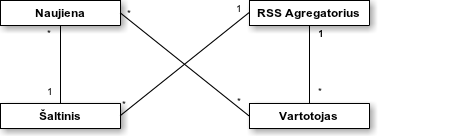
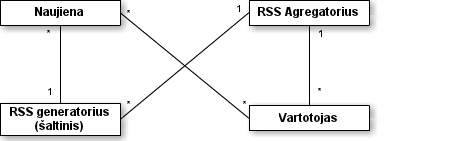
Redagavau stat. strukt., ištryniau nereikalingas admin užduotis

diff --git a/projektas/2.2_vidine_analize.md b/projektas/2.2_vidine_analize.md
@@ -42,15 +42,7 @@ užima papildomo vartotojo laiko.
 
 ![Užduotis: Pažymėti pamėgtąja](projektas/img/Užduotis_Pažymėti_pamėgtąja.png)  
 
-![Užduotis: Ištrinti šaltinį (admin)](projektas/img/Užduotis_ištrinti_šalt_admin.png)  
-
-![Užduotis: Pridėti šaltinį (admin)](projektas/img/Užduotis_prideti_šalt_admin.png)  
-
-![Užduotis: Keisti vartotojo informaciją (admin)](projektas/img/Užduotis_Keisti_var_info_admin.png)  
-
-![Užduotis: Pridėti vartotoją](projektas/img/Užduotis_pridėti_vartotoją.png)  
-
-![Užduotis: Šalinti vartotoja](projektas/img/Užduotis_šalinti_vartotoja.png)  
+![Užduotis: Šalinti vartotoja (admin)](projektas/img/Užduotis_šalinti_vartotoja.png)  
 
 ![Užduotis: Keisti sisteminius nustatymus (admin)](projektas/img/Užduotis_admin_keisti_sist_nust.png)  
 
